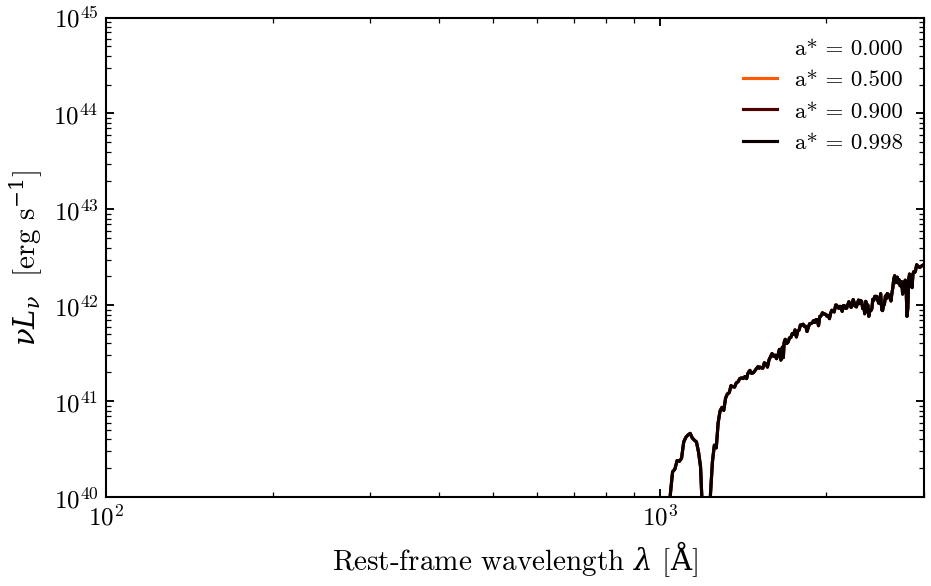
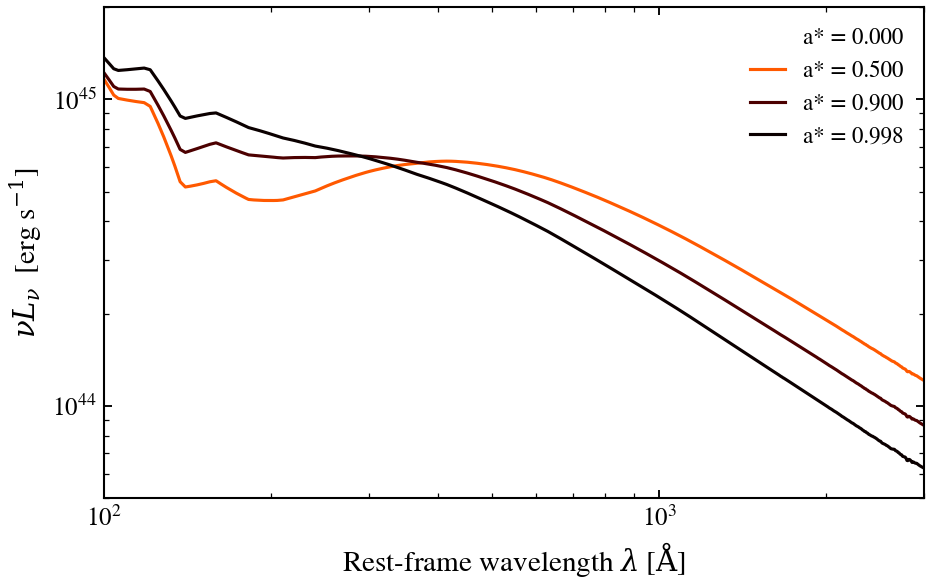
fix(examples): BH spin sweep was producing a flat empty plot
Same root cause as the polar-dust example: a_spin was set as a sample-dict
override but '*: tengri.FIXED' at the agn-group level made it a no-op, and
agn_frac defaulted to 0 so the entire composable AGN was multiplied by
zero. Promoted a_spin to Uniform(0, 0.998) and set frac=1.0. The four
spin values now show the expected ISCO-driven UV hardening — Schwarzschild
(a*=0) softest, near-extremal Kerr (a*=0.998) hardest, crossover ~250 A.

diff --git a/examples/agn/plot_bh_spin_disc_continuum.py b/examples/agn/plot_bh_spin_disc_continuum.py
@@ -49,6 +49,10 @@ model = tengri.SEDModel.build(
         "log_lbol": 11.5,
         "log_mbh": 8.0,
         "log_ledd": -0.5,
+        "frac": 1.0,  # without this the composable AGN is multiplied by zero
+        # Promote a_spin to FREE so the sweep at predict time actually flows;
+        # a bare tengri.FREE at per-param level is swallowed by '*: FIXED'.
+        "a_spin": tengri.Uniform(0.0, 0.998),
     },
     redshift=tengri.Fixed(0.05),
 )
@@ -69,7 +73,7 @@ for a_spin in a_spin_values:
     ax.loglog(wave, nu_l_nu, color=cmap(norm(a_spin)), lw=1.5, label=f"a* = {a_spin:.3f}")
 
 ax.set_xlim(100, 3000)
-ax.set_ylim(1e40, 1e45)
+ax.set_ylim(5e43, 2e45)
 ax.set_xlabel(r"Rest-frame wavelength $\lambda$ [$\mathrm{\AA}$]")
 ax.set_ylabel(r"$\nu L_\nu$  [erg s$^{-1}$]")
 ax.legend(loc="upper right", framealpha=0.95)
